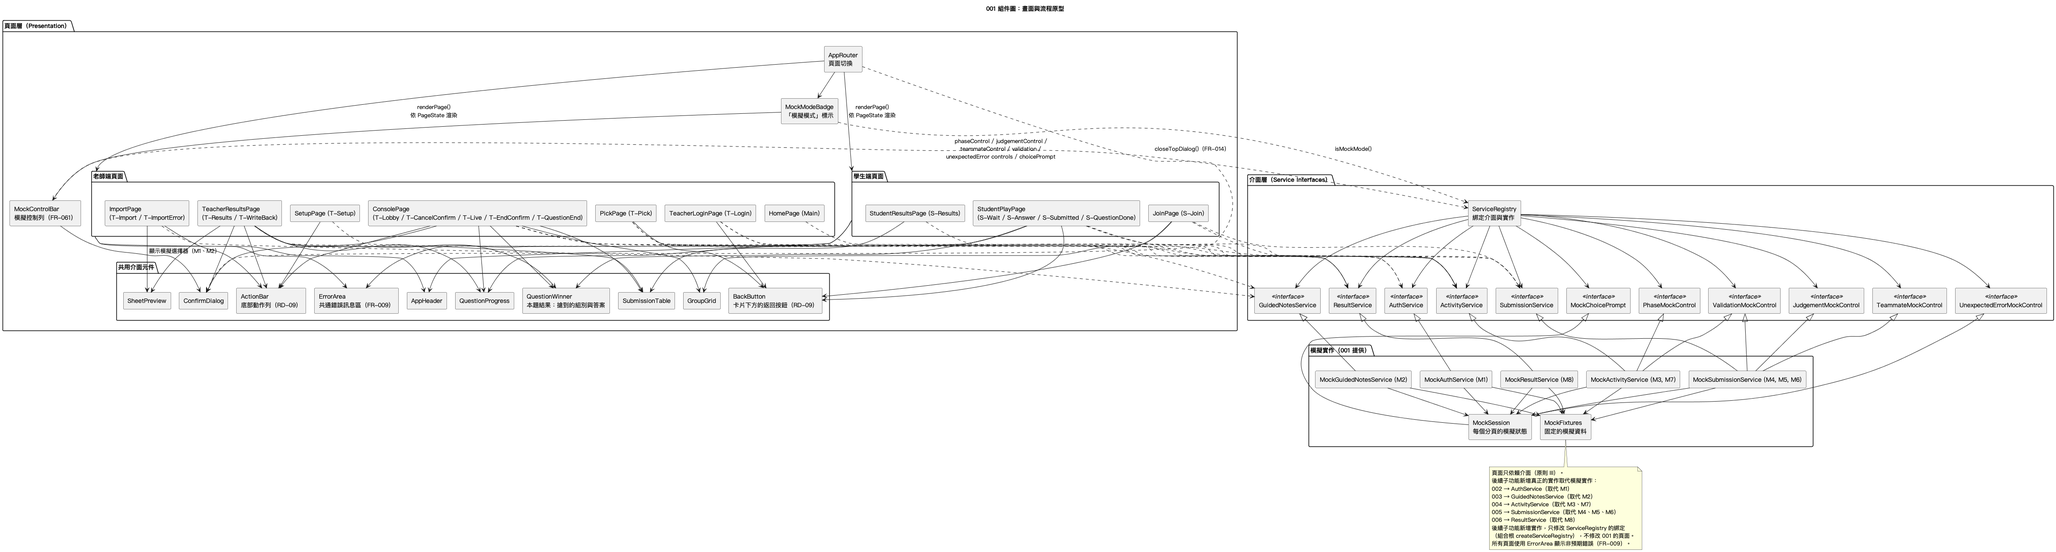
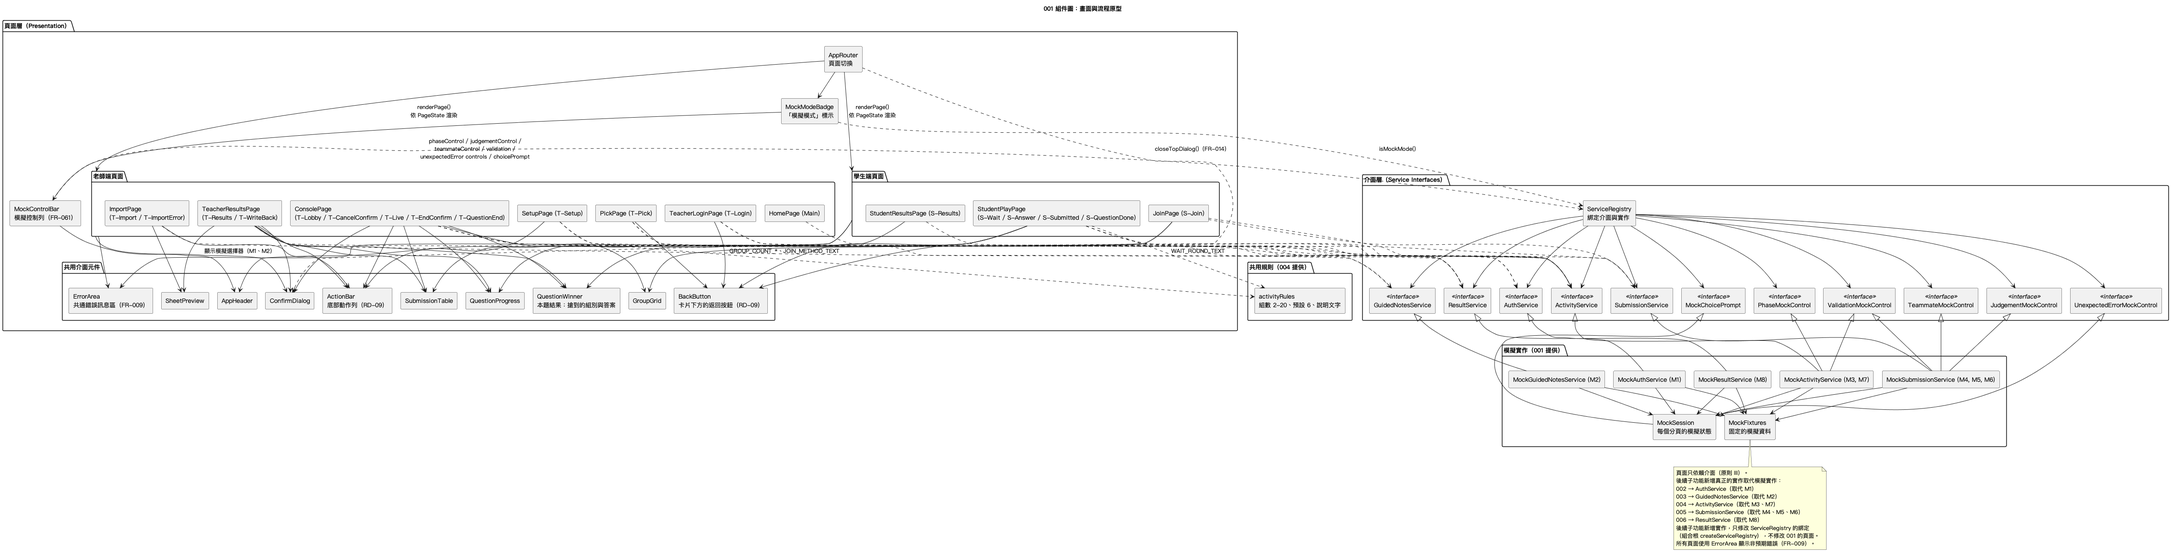
spec: fix the 001 setup rules and round texts
The success rule on T-Setup lacked "被拒絕後不能重送" (005 AC-26, #26),
and 001 pages never used 004's group count limits and round texts,
leaving 004 C2 open (#28).

Refs: FR-023, FR-051, US2 AC-6, AC-7, D4, D5, D18, REQ-ACT-23, #26, #28

diff --git a/specs/004-buzzer-session/spec.md b/specs/004-buzzer-session/spec.md
@@ -20,7 +20,7 @@
 
 - 老師建立活動、修改組數（R3）。
 - 老師在準備中（開放第 1 題之前）取消活動；取消後活動不存在，已加入的學生回到選組頁的「目前沒有活動」（R3、feature-split 第 4 節）。
-- 定義並提供活動設定頁的組數規則（預設值、「−」「+」何時不可用）與 004 負責的說明文字（001 FR-023、FR-051 交給 004 定義）。頁面的呈現由 001 修改（「需請 001 修改」C2）；004 不修改 001 的頁面（原則 III）。
+- 定義並提供活動設定頁的組數規則（預設值、「−」「+」何時不可用）與 004 負責的說明文字（001 FR-023、FR-051 交給 004 定義）。頁面的呈現由 001 修改（「需請 001 修改」C2，001 已完成，2026-11-28）；004 不修改 001 的頁面（原則 III）。
 - 學生不需登入，選擇組別加入；同一組可以有多位學生（R7）。
 - 老師依題號一題一題開放、結束搶答；結束最後一題時活動一併結束（R3、D9）。
 - 活動階段只存在伺服器，任何改變都主動通知所有分頁；學生頁面依階段自動切換（R11）。
@@ -34,7 +34,7 @@
 | 讀取學習單、辨識題目 | 003 |
 | 送出答案、依送出順序判定、作答期間隱藏其他組 | 005 |
 | 公布每題與全部結果、寫回學習單 | 006 |
-| 頁面、按鈕與頁面切換的畫面 | 001（004 配合 001 的現況；C1（D21）001 已完成（2026-11-27），仍需 001 修改的是 C2（組數規則與說明文字），見「需請 001 修改」） |
+| 頁面、按鈕與頁面切換的畫面 | 001（004 配合 001 的現況；C1（D21）001 已完成（2026-11-27），C2（組數規則與說明文字）001 已完成（2026-11-28），見「需請 001 修改」） |
 
 不做：每題限時與倒數、公平模式（E3）、活動名稱、開新一輪（活動開放第 1 題之後就不能取消或提前結束，結束後也不能建立新活動；同一時間只有一場活動）、學生加入網址、連線／離線狀態顯示、活動狀態存檔（伺服器重啟後活動消失）。
 
@@ -42,7 +42,7 @@
 
 ### Session 2026-11-21
 
-- Q: 組數的範圍？組數在邊界時「−」「+」怎麼呈現？（001 D4）→ A: 2 到 20 組的整數；組數為 2 時「−」不可用、為 20 時「+」不可用；伺服器再驗證一次（REQ-ACT-02）。（2026-11-22：001 spec 已把範圍、預設值與「−」「+」何時不可用交給 004 定義，不列為請 001 修改。2026-11-26：001 已完成但沒有套用，列為請 001 修改 C2，見 Session 2026-11-26）
+- Q: 組數的範圍？組數在邊界時「−」「+」怎麼呈現？（001 D4）→ A: 2 到 20 組的整數；組數為 2 時「−」不可用、為 20 時「+」不可用；伺服器再驗證一次（REQ-ACT-02）。（2026-11-22：001 spec 已把範圍、預設值與「−」「+」何時不可用交給 004 定義，不列為請 001 修改。2026-11-26：001 已完成但沒有套用，列為請 001 修改 C2，見 Session 2026-11-26；2026-11-28 001 已完成 C2）
 - Q: 組數的預設值？（001 D5）→ A: 6 組（REQ-ACT-02、AC-01）。
 - Q: 結束最後一題時，活動是否一併結束？（001 D9）→ A: 是。結束最後一題後階段直接是「已結束」，不另外經過最後一題的「本題已結束」（REQ-ACT-06）。（2026-11-22：feature-split 第 4 節已定案，001 的頁面切換已配合）
 - Q: 老師在活動進行中重新整理頁面時，活動要結束，還是讓老師登入後回到控制台？（001 D21）→ A: 活動繼續；老師用同一個帳號重新登入後，直接進入控制台目前的階段（REQ-ACT-21，需請 001 修改 C1）。（2026-11-22 修訂：001 修改前為暫時限制，見 Session 2026-11-22；2026-11-27 001 已完成 C1，暫時限制解除，見 Session 2026-11-27）
@@ -82,7 +82,7 @@
 - Q: 活動被取消時，學生頁面怎麼知道？→ A: 依 001 RD-12，階段改變的通知以「沒有活動」表示活動已被取消；首頁、選組頁、等待開放頁收到後切換（REQ-ACT-16、AC-33）。
 - Q: 連點「確定取消活動」，第二次時活動已經不存在怎麼辦？→ A: 視為成功、不改變，與連點開放或結束相同（REQ-ACT-07、AC-36）。
 - Q: 允許取消後，「已經有活動時再建立」的訊息還要說「重新啟動伺服器」嗎？→ A: 要。這個情況只會在老師失去控制台時發生（D21 暫時限制下重新登入，或被別人登入取代），老師回不到控制台，也就無法取消；要重新開始仍只能重新啟動伺服器（AC-06、AC-32）。（2026-11-27：C1 完成後老師重新登入會回到控制台，這個訊息只在連點、兩個老師分頁等情況出現，見 Session 2026-11-27）
-- Q: 001 已完成，但活動設定頁的組數沒有上下限（「−」可減到 0），預設值寫死在頁面，等待開放頁的「這一輪」只有題數，誰來補？→ A: 規則與文字屬於 004（001 FR-023、FR-051），由 004 定義並以共用常數提供；頁面怎麼呈現屬於 001。憲法 III 不允許為新增規則修改既有且已驗證的實作，001 plan 也只允許後續子功能修改 `ServiceRegistry` 的綁定，所以列為「需請 001 修改」C2，由 001 依自己的流程修改頁面與測試。C2 完成前，伺服器仍驗證組數（AC-04），頁面維持 001 現況（REQ-ACT-02、REQ-ACT-23、AC-01、AC-02、AC-09）。（2026-11-26 analyze 第 5 次 C1 後修訂；原本決定由 004 直接修改 001 頁面）
+- Q: 001 已完成，但活動設定頁的組數沒有上下限（「−」可減到 0），預設值寫死在頁面，等待開放頁的「這一輪」只有題數，誰來補？→ A: 規則與文字屬於 004（001 FR-023、FR-051），由 004 定義並以共用常數提供；頁面怎麼呈現屬於 001。憲法 III 不允許為新增規則修改既有且已驗證的實作，001 plan 也只允許後續子功能修改 `ServiceRegistry` 的綁定，所以列為「需請 001 修改」C2，由 001 依自己的流程修改頁面與測試。C2 完成前，伺服器仍驗證組數（AC-04），頁面維持 001 現況（REQ-ACT-02、REQ-ACT-23、AC-01、AC-02、AC-09）。（2026-11-26 analyze 第 5 次 C1 後修訂；原本決定由 004 直接修改 001 頁面。2026-11-28 001 已完成 C2，001 spec Session 2026-11-28）
 - Q: 活動設定頁「學生加入」的文字以誰為準？→ A: 以 001 已實作的文字為基礎，加上 004 的換組規則（「說明文字」一節）。
 - Q: 伺服器重新啟動時，已開著的頁面怎麼辦？→ A: 頁面重新連上後收到「沒有活動」，依 001 RD-12：首頁、選組頁、等待開放頁切到「目前沒有活動」；作答頁、等待判定頁、本題結果頁與全部結果頁不切換（Edge Cases）。
 - Q: 學生收到的活動資料要遮掉哪些學習單資訊？→ A: 學生頁面用不到任何學習單資訊，試算表 ID、標題、工作表名稱都不給（REQ-ACT-19）。
@@ -107,8 +107,8 @@
 
 **Acceptance Scenarios**:
 
-1. **AC-01** **Given** 老師已登入且已成功匯入一份 4 題的學習單，**When** 進入活動設定頁（建立模式），**Then** 組數預設為 6，組別清單列出第 1–6 組；「這一輪」的學生加入說明為「說明文字」一節的內容。（頁面部分需 001 完成 C2）
-2. **AC-02** **Given** 活動設定頁的組數為 2，**When** 檢視組數欄位，**Then**「−」不可用，連按也不會小於 2；組數為 20 時「+」不可用，連按也不會大於 20。（需 001 完成 C2；完成前由伺服器拒絕，見 AC-04）
+1. **AC-01** **Given** 老師已登入且已成功匯入一份 4 題的學習單，**When** 進入活動設定頁（建立模式），**Then** 組數預設為 6，組別清單列出第 1–6 組；「這一輪」的學生加入說明為「說明文字」一節的內容。（頁面部分由 001 依 C2 完成，2026-11-28）
+2. **AC-02** **Given** 活動設定頁的組數為 2，**When** 檢視組數欄位，**Then**「−」不可用，連按也不會小於 2；組數為 20 時「+」不可用，連按也不會大於 20。（頁面由 001 依 C2 完成，2026-11-28；伺服器另外驗證，見 AC-04）
 3. **AC-03** **Given** 活動設定頁的組數為 4，**When** 老師按「建立活動」，**Then** 活動進入「準備中」，題目為匯入的 4 題，第 1–4 組各 0 人；已開著首頁或選組頁的分頁在 1 秒內看到這個活動。
 4. **AC-04** **Given** 有人繞過頁面直接要求組數 1、21 或 3.5，**When** 建立活動或儲存設定，**Then** 系統拒絕，在組數欄位旁顯示「組數必須是 2 到 20 之間的整數」，活動不變。
 5. **AC-05** **Given** 準備中且第 5 組已有 1 位學生，**When** 老師把組數改成 4 並儲存，**Then** 系統拒絕並顯示「第 5 組已有學生加入，組數不能少於 5」；改成 8 則成功，所有分頁在 1 秒內看到 8 組。
@@ -132,7 +132,7 @@
 
 **Acceptance Scenarios**:
 
-1. **AC-09** **Given** 活動準備中、6 組，**When** 學生在選組頁選第 3 組並按「加入第 3 組」，**Then** 進入等待開放頁，「這一輪」顯示題數與「說明文字」一節的內容（說明文字需 001 完成 C2）；老師控制台在 1 秒內顯示第 3 組人數加 1。
+1. **AC-09** **Given** 活動準備中、6 組，**When** 學生在選組頁選第 3 組並按「加入第 3 組」，**Then** 進入等待開放頁，「這一輪」顯示題數與「說明文字」一節的內容（說明文字由 001 依 C2 完成，2026-11-28）；老師控制台在 1 秒內顯示第 3 組人數加 1。
 2. **AC-10** **Given** 第 3 組已有 1 人，**When** 另一個分頁也加入第 3 組，**Then** 加入成功，第 3 組為 2 人。
 3. **AC-11** **Given** 準備中，學生在第 3 組，**When** 按「選錯組別？重新選擇」後加入第 5 組，**Then** 第 3 組人數減 1、第 5 組加 1。
 4. **AC-12** **Given** 第 1 題已開放過（之後任何階段），**When** 已在第 3 組的分頁要求加入第 5 組或離開組別，**Then** 系統拒絕，頁面停留在原頁，共通錯誤訊息區顯示「第 1 題開放後不能換組，你在第 3 組」；該分頁仍在第 3 組。
@@ -230,7 +230,7 @@
 - **REQ-ACT-03**（R3）：系統同一時間 MUST 最多只有一場活動；已有活動時（任何階段）MUST 拒絕建立新活動，並說明「已經有進行中的活動，不能再建立；要重新開始請重新啟動伺服器」。活動被取消（REQ-ACT-22）後 MUST 允許再建立。
 - **REQ-ACT-04**（R3、R7）：老師 MUST 只能在第 1 題開放前修改組數；新組數 MUST 不少於目前已有學生的最大組別編號，否則拒絕並說明「第 n 組已有學生加入，組數不能少於 n」。
 - **REQ-ACT-22**（R3、feature-split 第 4 節、001 FR-026）：老師 MUST 能在準備中取消活動。取消後活動不存在：所有組別與學生的加入紀錄 MUST 一併清除，下一場活動的人數從 0 開始；所有分頁 MUST 收到「沒有活動」（REQ-ACT-16）。第 1 題開放後 MUST 拒絕取消，說明「第 1 題開放後不能取消活動」，活動不變；系統 MUST NOT 提供開放第 1 題後提前結束活動的方式。沒有活動時要求取消 MUST 視為成功、不改變狀態（連點）。
-- **REQ-ACT-23**（001 FR-023、FR-051）：004 MUST 以共用常數提供 REQ-ACT-02 的組數範圍與預設值，以及「說明文字」一節的文字，讓 001 的活動設定頁與等待開放頁引用。004 MUST NOT 修改 001 的頁面（原則 III）；頁面的呈現由 001 依「需請 001 修改」C2 完成，完成前伺服器仍依 REQ-ACT-02 驗證組數。
+- **REQ-ACT-23**（001 FR-023、FR-051）：004 MUST 以共用常數提供 REQ-ACT-02 的組數範圍與預設值，以及「說明文字」一節的文字，讓 001 的活動設定頁與等待開放頁引用。004 MUST NOT 修改 001 的頁面（原則 III）；頁面的呈現由 001 依「需請 001 修改」C2 完成（2026-11-28）；伺服器仍依 REQ-ACT-02 驗證組數。
 
 #### 逐題開放與結束
 
@@ -268,7 +268,7 @@
 
 ### 說明文字
 
-001 在活動設定頁「學生加入方式的說明」與等待開放頁「這一輪的說明」只保留位置，文字依 feature-split 3.2 與 004、005 的規則撰寫（001 spec「相對於設計稿的調整」末段、FR-023、FR-051）。001 已完成：活動設定頁的「學生加入」已有文字，等待開放頁的「這一輪」只顯示題數。004 負責的部分文字如下，由 004 以共用常數提供、001 依 C2 引用（REQ-ACT-23）；成功規則的文字由 005 提供，001 已有的成功規則文字 004 不改：
+001 在活動設定頁「學生加入方式的說明」與等待開放頁「這一輪的說明」只保留位置，文字依 feature-split 3.2 與 004、005 的規則撰寫（001 spec「相對於設計稿的調整」末段、FR-023、FR-051）。001 已完成：活動設定頁的「學生加入」已有文字，等待開放頁的「這一輪」只顯示題數。004 負責的部分文字如下，由 004 以共用常數提供、001 依 C2 引用（REQ-ACT-23；2026-11-28 001 已完成）；成功規則的文字由 005 提供，001 已有的成功規則文字 004 不改：
 
 - 活動設定頁「學生加入」：「學生在首頁選「我是學生」，再選自己的組別加入。同一組可以有多位同學，任何人送出都代表整組。第 1 題開放後不能換組。」（001 已有的文字加上最後一句）
 - 等待開放頁「這一輪」：保留 001 的題數，下方加上「老師會一題一題開放。第 1 題開放後不能換組。」
@@ -278,7 +278,7 @@
 | # | 要改什麼 | 為什麼 | 修改前的處理 |
 | --- | --- | --- | --- |
 | C1 | 老師登入成功後的目的頁：先呼叫 `ActivityService.getCurrentActivity()`，沒有活動時進入 T-Pick（不變）；`PREPARING` → T-Lobby、`OPEN` → T-Live（第 n 題）、`QUESTION_ENDED` → T-QuestionEnd（第 n 題）、`FINISHED` → T-Results。修改 spec「頁面與按鈕」T-Login 列、畫面流程圖、`AppRouter`，以及 research RD-11 的說明（重新整理仍回首頁，但老師登入後可回到控制台）。已在 PR #10 留言；001 已完成但沒有納入，2026-11-27 由 001 修改 spec（FR-015）與登入頁後完成 | D21 決定「活動繼續，老師重新登入後回到控制台」（REQ-ACT-21、AC-26） | （已完成，2026-11-27）原本的暫時限制：老師登入後進入 T-Pick，回不到控制台；活動與學生不受影響 |
-| C2 | 活動設定頁（T-Setup）與等待開放頁（S-Wait）引用 004 提供的常數：建立模式的組數初始值用 `GROUP_COUNT_DEFAULT`；「−」在 `GROUP_COUNT_MIN`、「+」在 `GROUP_COUNT_MAX` 時不可用，點擊結果不超出範圍；T-Setup「學生加入」用 `JOIN_METHOD_TEXT`；S-Wait「這一輪」在題數下方加上 `WAIT_ROUND_TEXT`。不增減欄位、按鈕或頁面。修改 001 spec（US2 AC-7、FR-023、FR-051）、tasks 與對應的元件測試 | 規則與文字由 004 定義（001 FR-023、FR-051），但 004 不得為此修改 001 已驗證的頁面（原則 III；001 plan「替換模擬實作的方式」）（REQ-ACT-23、AC-01、AC-02、AC-09） | 頁面維持 001 現況：組數預設 6 但沒有上下限，超出範圍時由伺服器拒絕（AC-04）；「學生加入」為 001 原本的文字，等待開放頁只顯示題數 |
+| C2 | 活動設定頁（T-Setup）與等待開放頁（S-Wait）引用 004 提供的常數：建立模式的組數初始值用 `GROUP_COUNT_DEFAULT`；「−」在 `GROUP_COUNT_MIN`、「+」在 `GROUP_COUNT_MAX` 時不可用，點擊結果不超出範圍；T-Setup「學生加入」用 `JOIN_METHOD_TEXT`；S-Wait「這一輪」在題數下方加上 `WAIT_ROUND_TEXT`。不增減欄位、按鈕或頁面。修改 001 spec（US2 AC-7、FR-023、FR-051）、tasks 與對應的元件測試。2026-11-28 由 001 修改 spec（FR-023、FR-051、US2 AC-6、AC-7）與頁面後完成（issue #28） | 規則與文字由 004 定義（001 FR-023、FR-051），但 004 不得為此修改 001 已驗證的頁面（原則 III；001 plan「替換模擬實作的方式」）（REQ-ACT-23、AC-01、AC-02、AC-09） | （已完成，2026-11-28）原本的處理：頁面維持 001 現況，組數預設 6 但沒有上下限，超出範圍時由伺服器拒絕（AC-04）；「學生加入」為 001 原本的文字，等待開放頁只顯示題數 |
 
 2026-11-22 那一輪列出的舊 C2（`joinGroup` 回傳 `ValidationError`）、C3（組數範圍與預設值）、C4（說明文字）、C5（`FINISHED` 與加入時依階段切換）已移除：舊 C2 改用 `UnexpectedError`；C3、C4 當時認為 001 實作時會照用，001 完成後沒有套用，2026-11-26 合併成新的 C2；C5 已由 001 最終版完成。取消活動的頁面（001 FR-026、FR-050、FR-051）001 已完成，不需請 001 修改。
 

diff --git a/specs/001-ui-prototype/spec.md b/specs/001-ui-prototype/spec.md
@@ -69,8 +69,8 @@
 | D1 | 登入失敗分為「已取消登入」與「此帳號不是老師帳號」兩種，並顯示對應訊息（2026-11-21 修訂：Google 帳號無法判斷是否為老師，以 Google 登入的人即為老師，捨棄「此帳號不是老師帳號」；002 只需決定取消登入以外的失敗種類，例如授權失敗） | FR-013；US1 AC-4 | 002 |
 | D2 | 找不到表頭時不匯入任何題目，原本的題目清單也不變動 | FR-022；US2 AC-2；Edge Cases | 003 |
 | D3 | 挑選學習單時關閉檔案選擇器，原本的辨識結果不變 | Edge Cases | 003 |
-| D4 | 組數範圍為 2 到 20 組；組數在 2 或 20 時「−」或「+」不可用 | FR-023；US2 AC-5；Edge Cases | 004 |
-| D5 | 組數預設為 6 組 | FR-023；US2 AC-4 | 004 |
+| D4 | 組數範圍為 2 到 20 組；組數在 2 或 20 時「−」或「+」不可用 | FR-023；US2 AC-5；Edge Cases | 004（2026-11-28：004 以 `activityRules` 提供，001 頁面依 004 C2 引用，FR-023、US2 AC-7） |
+| D5 | 組數預設為 6 組 | FR-023；US2 AC-4 | 004（2026-11-28：001 頁面依 004 C2 引用，FR-023、US2 AC-6） |
 | D6 | 活動名稱預填學習單標題 | FR-023；US2 AC-4 | 已捨棄（2026-11-21 clarify：不保留活動名稱） |
 | D7 | 活動名稱必填；只有空白字元視為空白；空白時顯示「請輸入活動名稱」 | FR-023；US2 AC-6；Edge Cases | 已捨棄（2026-11-21 clarify：不保留活動名稱） |
 | D8 | 所有輸入在送出前都要驗證，驗證失敗時在欄位旁說明哪一項有誤及原因 | FR-008 | 各子功能依原則 VII 定義自己的驗證規則；001 只負責顯示（FR-008） |
@@ -83,7 +83,7 @@
 | D15 | 連點「整組送出」只送出一次 | FR-053；Edge Cases | 005 |
 | D16 | 被拒絕的組別可修改答案後重送；被拒絕狀態保留上次送出的答案 | FR-056；US4 AC-8、AC-9；「相對於設計稿的調整」末段 | 已捨棄（feature-split 第 4 節已決定：每組每題只能送出一次，不能重送；001 的頁面已配合，2026-11-22） |
 | D17 | 學生在等待判定時另一組已被接受，維持等待判定直到本題結束 | Edge Cases | 已不適用（feature-split 第 4 節：接受後本題自動結束，所有學生進入本題結果） |
-| D18 | 說明文字中的成功規則「老師依送出順序判定，第一個被接受的組別搶答成功」 | FR-023；「相對於設計稿的調整」末段 | 005（依 feature-split 3.2） |
+| D18 | 說明文字中的成功規則「老師依送出順序判定，第一個被接受的組別搶答成功」 | FR-023；「相對於設計稿的調整」末段 | 005（依 feature-split 3.2；2026-11-28 依 issue #26 調整文字順序並補上「被拒絕後不能重送」，FR-023） |
 | D19 | 寫回確認視窗說明「這些填空格原本的內容會被覆蓋」 | FR-041 | 006 |
 | D20 | 寫回失敗時不寫入任何格子，並說明沒有寫入任何格子 | FR-042；Edge Cases | 006 |
 | D21 | 老師在活動進行中重新整理頁面時，活動要結束，還是讓老師登入後回到控制台。若選擇回到控制台，須先修改 001 的頁面切換（目前重新整理一律回到首頁） | 001 plan 審查（2026-11-21） | 004（已決定：活動繼續；老師登入後依目前活動的階段進入控制台，004 spec「需請 001 修改」C1。001 的登入頁已配合，重新整理仍回到首頁，2026-11-27，FR-015） |
@@ -128,6 +128,13 @@
 - Q: 老師登入成功後進入哪一頁？ → A: 依活動介面回傳的目前活動決定：沒有活動時進入挑選學習單頁（不變）；準備中進入控制台・準備中；搶答中進入控制台・搶答中（第 n 題）；本題已結束進入控制台・本題已結束（第 n 題）；已結束進入結果與寫回頁（FR-015、US1 AC-3、AC-8）。重新整理仍一律回到首頁（FR-014）。
 - Q: 登入成功但取得目前活動失敗時怎麼處理？ → A: 依 FR-009 停留在登入頁，在共通錯誤訊息區顯示介面回傳的訊息，不進入老師頁面；老師再按「用 Google 登入」重試（FR-015、US1 AC-9）。
 
+### Session 2026-11-28
+
+依 issue #26（005 AC-26、REQ-SUB-18）與 issue #28（004 spec「需請 001 修改」C2）修訂：
+
+- Q: 活動設定頁「成功規則」的說明缺少「被拒絕後不能重送」，且「第一個被接受的組別搶答成功」被中間的句子隔開，怎麼改？ → A: 改為「老師依送出順序判定，第一個被接受的組別搶答成功，這一題隨即結束；老師只能判定最早一筆還沒判定的答案。每組每題只能送出一次，被拒絕後不能重送。」內容不變，只調整順序並補上最後一句（FR-023、D18；feature-split 3.2、第 4 節）。
+- Q: 004 已在 `shared/src/activityRules.ts` 提供組數規則與說明文字，001 的頁面要怎麼套用？ → A: 活動設定頁建立模式的組數初始值用 `GROUP_COUNT_DEFAULT`；組數為 `GROUP_COUNT_MIN` 時「−」不可用、為 `GROUP_COUNT_MAX` 時「+」不可用，點擊結果不超出範圍；「學生加入」用 `JOIN_METHOD_TEXT`；等待開放頁「這一輪」在題數下方加上 `WAIT_ROUND_TEXT`。不增減欄位、按鈕或頁面；組數仍由活動介面驗證（FR-023、FR-051、US2 AC-6、AC-7、D4、D5）。
+
 ## User Scenarios & Testing *(mandatory)*
 
 ### User Story 1 - 選擇身分進入對應入口 (Priority: P1)
@@ -166,8 +173,8 @@
 3. **Given** 老師在挑選學習單頁, **When** 點「從 Google 雲端硬碟挑選」，在模擬檔案選擇器中選「表頭錯誤範例」, **Then** 模擬為找不到表頭，進入找不到表頭頁，顯示錯誤原因、學習單目前的表頭文字、系統認得的表頭寫法與修正方式。
 4. **Given** 老師在找不到表頭頁（「表頭錯誤範例」）, **When** 點「重新讀取」, **Then** 模擬為老師已修正表頭，重新讀取成功，進入確認辨識結果頁，顯示與「題組＋單題範本」相同的 4 題、6 個填空格。
 5. **Given** 老師在挑選學習單頁, **When** 點「從 Google 雲端硬碟挑選」後關閉模擬檔案選擇器, **Then** 停留在挑選學習單頁。
-6. **Given** 老師在確認辨識結果頁, **When** 點「確認匯入，下一步」, **Then** 進入活動設定頁（建立模式），頁面有組數欄位（含「−」「+」與組別清單）、這一輪的摘要，以及「上一步」「建立活動」兩個按鈕。
-7. **Given** 老師在活動設定頁, **When** 點組數的「+」或「−」, **Then** 組數增加或減少 1 組，組別清單隨之更新，頁面不切換。（組數的範圍，以及「−」「+」何時不可用，由 004 定義；001 的模擬實作不限制）
+6. **Given** 老師在確認辨識結果頁, **When** 點「確認匯入，下一步」, **Then** 進入活動設定頁（建立模式），頁面有組數欄位（含「−」「+」與組別清單，組數預設為 6 組）、這一輪的摘要，以及「上一步」「建立活動」兩個按鈕。
+7. **Given** 老師在活動設定頁, **When** 點組數的「+」或「−」, **Then** 組數增加或減少 1 組，組別清單隨之更新，頁面不切換；組數為 2 時「−」不可用、為 20 時「+」不可用，連按也不會超出 2 到 20 組。（範圍與預設值由 004 定義，頁面引用 004 的 `activityRules`，FR-023）
 8. **Given** 老師在活動設定頁（建立模式）, **When** 點「建立活動」, **Then** 模擬為建立成功，進入控制台・準備中，顯示各組已加入人數（模擬資料中至少一組為 0 人）與這一輪的題目清單。
 9. **Given** 老師在活動設定頁，且展示者已在模擬控制列點「模擬：驗證失敗」, **When** 點「建立活動」或「儲存設定」, **Then** 模擬為驗證失敗，停留在活動設定頁，並在組數欄位旁顯示「模擬：驗證失敗」。（只觸發錯誤的顯示，驗證規則由 004 定義）
 10. **Given** 老師在控制台・準備中, **When** 點「修改設定」, **Then** 進入活動設定頁（修改模式），頁面按鈕為「取消」「儲存設定」；按「取消」，或按「儲存設定」且模擬為儲存成功，都回到控制台・準備中。
@@ -275,7 +282,7 @@
 - 老師取消活動時，已加入組別的學生：回到選組頁的「目前沒有活動」（階段推動，屬於 004；001 的頁面已處理這個通知，FR-050、FR-051）。
 - 作答頁、等待判定頁或本題結果頁收到「沒有活動」的通知：不切換頁面。依 FR-026，開放第 1 題之後不能取消活動，因此這個通知不會出現在這些頁面。
 
-下列情況的規則不由 001 定義，001 的頁面依介面回傳的結果呈現，見「交給其他子功能定義的事項」：找不到表頭時是否保留原本的題目清單（D2）、組數範圍與預設值及必填欄位（D4–D7）、空白字元與連點送出（D14、D15）、寫回失敗時是否寫入部分格子（D20）、同組兩位組員幾乎同時送出時以哪一筆為準（005）。
+下列情況的規則不由 001 定義，001 的頁面依介面回傳的結果呈現，見「交給其他子功能定義的事項」：找不到表頭時是否保留原本的題目清單（D2）、組數範圍與預設值（D4、D5，頁面引用 004 的 `activityRules`）及必填欄位（D6、D7）、空白字元與連點送出（D14、D15）、寫回失敗時是否寫入部分格子（D20）、同組兩位組員幾乎同時送出時以哪一筆為準（005）。
 
 ## Requirements *(mandatory)*
 
@@ -310,7 +317,7 @@
 - **FR-023**: 活動設定頁 MUST 提供下列欄位與摘要，且 MUST NOT 提供活動名稱欄位（活動名稱不在 `docs/assignment.md` 的需求內）：
   - 組數欄位：以「−」「+」調整，並列出各組。
   - 這一輪的摘要：題數、題組題號、組數、成功規則的說明、學生加入方式的說明。
-  欄位的驗證規則與預設值由 004 定義；說明文字依 `docs/feature-split.md` 3.2 與 004、005 的規則撰寫。001 的模擬實作接受任何輸入。
+  組數的範圍與預設值由 004 定義（D4、D5），頁面引用 004 的 `shared/src/activityRules.ts`：建立模式的組數初始值為 `GROUP_COUNT_DEFAULT`（6），修改模式為活動目前的組數；組數為 `GROUP_COUNT_MIN`（2）時「−」不可用、為 `GROUP_COUNT_MAX`（20）時「+」不可用，點擊結果不超出範圍。學生加入方式的說明為 `JOIN_METHOD_TEXT`。成功規則的說明為「老師依送出順序判定，第一個被接受的組別搶答成功，這一題隨即結束；老師只能判定最早一筆還沒判定的答案。每組每題只能送出一次，被拒絕後不能重送。」（D18；依 `docs/feature-split.md` 3.2、第 4 節）。組數的驗證由活動介面執行（FR-008），001 的模擬實作接受任何輸入。
 - **FR-024**: 活動設定頁 MUST 有兩種模式：建立模式（按鈕「上一步」「建立活動」）與修改模式（按鈕「取消」「儲存設定」）。
 - **FR-025**: 控制台・準備中 MUST 顯示各組已加入人數、尚未有人加入的組別，與這一輪的題目清單（題號與類型）。
 - **FR-026**: 控制台・準備中 MUST 提供「取消活動」，點擊後開啟取消活動確認視窗，說明取消後已加入的學生會回到選組頁。按「確定取消活動」時透過活動介面取消活動，成功後 MUST 進入挑選學習單頁；按「繼續準備」時關閉視窗，活動不變。開放第 1 題之後的頁面 MUST NOT 提供取消或提前結束活動的方式。（R3；feature-split 第 4 節）
@@ -333,7 +340,7 @@
 #### 學生（R6、R7、R8、R9、E1、E4）
 
 - **FR-050**: 選組頁 MUST 依活動組數列出組別與各組已加入人數，選擇組別後才能按「加入第 n 組」；沒有進行中的活動時 MUST 顯示「目前沒有活動，請等老師建立活動」且不列出組別。停留在選組頁時收到活動介面「沒有活動」的通知（老師取消活動），MUST 改為顯示上述狀態並清除已選的組別。
-- **FR-051**: 等待開放頁 MUST 顯示組別、目前階段與這一輪的說明（依「階段推動的切換」，學生只在準備中停留於本頁，因此階段一律為準備中），並提供「選錯組別？重新選擇」。收到活動介面「沒有活動」的通知（老師取消活動）時 MUST 切換到選組頁，不呼叫「離開組別」（活動已不存在）；切換後的選組頁與一般進入時相同，載入時取得目前活動，活動已取消時顯示「目前沒有活動」。
+- **FR-051**: 等待開放頁 MUST 顯示組別、目前階段（依「階段推動的切換」，學生只在準備中停留於本頁，因此階段一律為準備中）與這一輪的說明（題數，下方為 004 的 `WAIT_ROUND_TEXT`「老師會一題一題開放。第 1 題開放後不能換組。」），並提供「選錯組別？重新選擇」。收到活動介面「沒有活動」的通知（老師取消活動）時 MUST 切換到選組頁，不呼叫「離開組別」（活動已不存在）；切換後的選組頁與一般進入時相同，載入時取得目前活動，活動已取消時顯示「目前沒有活動」。
 - **FR-052**: 作答頁 MUST 顯示組別、目前題號與總題數、題型、題目敘述（若有），並為每個小題各提供一個答案欄；題組 MUST 整組一次送出。
 - **FR-053**: 作答頁 MUST 有一個「整組送出」按鈕與一個送出提示區。按鈕何時可用、提示文字與重複點擊的處理由 005 定義；001 的模擬實作讓按鈕一律可用。
 - **FR-054**: 作答頁與等待判定頁 MUST NOT 顯示其他組別的作答狀況。（R9）
@@ -415,7 +422,7 @@
 | T-Import | 確認匯入，下一步 | — | T-Setup（建立模式） |
 | T-ImportError | 重新挑選 | 學習單（挑選、讀取） | 同 T-Pick 的「從 Google 雲端硬碟挑選」；取消：T-ImportError |
 | T-ImportError | 重新讀取 | 學習單（讀取） | 辨識成功：T-Import；找不到表頭：T-ImportError |
-| T-Setup | 「−」「+」（組數） | — | T-Setup（組數更新） |
+| T-Setup | 「−」「+」（組數；2 組時「−」、20 組時「+」不可用） | — | T-Setup（組數更新） |
 | T-Setup（建立模式） | 上一步 | — | T-Import |
 | T-Setup（建立模式） | 建立活動 | 活動（建立） | 驗證通過：T-Lobby；驗證失敗：T-Setup |
 | T-Setup（修改模式） | 取消 | — | T-Lobby |

diff --git a/specs/001-ui-prototype/tasks.md b/specs/001-ui-prototype/tasks.md
@@ -449,6 +449,31 @@ T012、T014、T015、T020、T021、T023、T024、T025、T028、T029、T031、T03
 
 ---
 
+## Phase 8.7: 規格修訂（2026-11-28）：成功規則文字與 004 的組數規則（issue #26、#28）
+
+**Purpose**: 套用 spec Session 2026-11-28（commit `spec(001): ...`）：活動設定頁「成功規則」改為 issue #26 的文字（FR-023、D18；005 AC-26）；依 004 spec「需請 001 修改」C2，活動設定頁與等待開放頁引用 004 的 `shared/src/activityRules.ts`（FR-023、FR-051、US2 AC-6、AC-7、D4、D5）。
+
+- **只改兩個頁面**：`SetupPage.tsx`、`StudentPlayPage.tsx` 的 `WaitView`；不增減欄位、按鈕或頁面，按鈕位置不變（RD-09 不受影響）。
+- **測試先寫、一次確認失敗**（T160–T162 一筆 `test(001)` commit），再一次實作到全部通過（T163–T165 一筆 `fix(001)` commit）。
+- **既有測試的斷言不修改**。
+
+### Tests（先寫，確認失敗）
+
+- [ ] T160 [P] [US2] 擴充 `frontend/tests/component/SetupPage.test.tsx`：「這一輪」的「成功規則」內容完全等於「老師依送出順序判定，第一個被接受的組別搶答成功，這一題隨即結束；老師只能判定最早一筆還沒判定的答案。每組每題只能送出一次，被拒絕後不能重送。」（FR-023、D18；issue #26）
+- [ ] T161 [P] [US2] 擴充 `frontend/tests/component/SetupPage.test.tsx`：建立模式的組數初始值為 `GROUP_COUNT_DEFAULT`；按「−」到 `GROUP_COUNT_MIN` 時「−」不可用、「+」可用，再點「−」組數不變；按「+」到 `GROUP_COUNT_MAX` 時「+」不可用、「−」可用，再點「+」組數不變；修改模式的初始值為活動目前的組數；「學生加入」內容完全等於 `JOIN_METHOD_TEXT`（FR-023、US2 AC-6、AC-7；004 C2）
+- [ ] T162 [P] [US4] 擴充 `frontend/tests/component/StudentPlayPage.wait.test.tsx`：S-Wait「這一輪」顯示「共 n 題」，其下方顯示 `WAIT_ROUND_TEXT`（FR-051；004 C2）
+
+### Implementation
+
+- [ ] T163 [US2] 修改 `frontend/src/pages/teacher/SetupPage.tsx`：`SUCCESS_RULE` 改為 T160 的文字；以 `@quiz-buzzer/shared/activityRules` 的 `GROUP_COUNT_DEFAULT` 取代 `INITIAL_GROUP_COUNT`；「−」「+」在 `GROUP_COUNT_MIN`、`GROUP_COUNT_MAX` 時 `disabled`，點擊結果夾在範圍內；「學生加入」改用 `JOIN_METHOD_TEXT`；更新檔頭註解（依賴 T160、T161）
+- [ ] T164 [US4] 修改 `frontend/src/pages/student/StudentPlayPage.tsx` 的 `WaitView`：「這一輪」在「共 n 題」下方加上 `WAIT_ROUND_TEXT`（依賴 T162）
+- [ ] T165 解除 004 `frontend/tests/e2e/activity-sync.spec.ts` 中等待 C2 的 2 個 `test.skip`（AC-01、AC-02 與 AC-09），執行 `npm run typecheck`、`npm run lint`、`npm test`、`npm run test:e2e`，確認 T160–T162 與這 2 個 E2E 通過，且其他測試沒有退步（SC-002）
+- [ ] T166 依 `quickstart.md` Q15 人工驗證：T-Setup 組數 2／20 時「−」「+」的狀態、「學生加入」與「成功規則」的文字、S-Wait「這一輪」的輪次文字，記錄於 `manual-verification.md`
+
+**Checkpoint**: 005 AC-26 與 004 AC-01、AC-02、AC-09 的頁面部分完成；004 不再有等待 001 的 skip。
+
+---
+
 ## 需求與任務對照
 
 | 需求 | 任務 |
@@ -467,13 +492,13 @@ T012、T014、T015、T020、T021、T023、T024、T025、T028、T029、T031、T03
 | FR-015 | T157–T159 |
 | FR-020 | T046、T052、T056、T062 |
 | FR-021、FR-022 | T057、T061、T063 |
-| FR-023、FR-024 | T058、T064、T066a |
+| FR-023、FR-024 | T058、T064、T066a、T160、T161、T163、T165、T166 |
 | FR-025 | T059、T065 |
 | FR-026 | T135–T138、T139–T142、T152、T155 |
 | FR-030–FR-034、FR-032a | T068、T069、T071–T075、T113、T126 |
 | FR-040–FR-042 | T070、T076、T143–T145 |
 | FR-050 | T047、T053、T079、T085、T147、T150、T154 |
-| FR-051 | T080、T086、T148、T151、T155 |
+| FR-051 | T080、T086、T148、T151、T155、T162、T164–T166 |
 | FR-052、FR-053 | T081、T087 |
 | FR-054 | T029、T084、T087 |
 | FR-055、FR-056 | T082、T088、T113、T124、T126 |
@@ -482,7 +507,7 @@ T012、T014、T015、T020、T021、T023、T024、T025、T028、T029、T031、T03
 | FR-058 | T083、T090 |
 | FR-060（M1–M9） | M1 T018/T026、T104/T109、M2 T019/T027、M3 T020/T028、T135/T140、M4–M6 T021/T029、T113/T123/T126、M7 T020/T028、T114/T125、M8 T022/T030、M9 T017/T025 |
 | FR-061 | T037、T041、T094、T107、T111、T116、T128 |
-| SC-001、SC-002 | T093、T095、T149–T152、T156、T157、T159 |
+| SC-001、SC-002 | T093、T095、T149–T152、T156、T157、T159、T165 |
 | SC-003 | T037、T093、T097 |
 | SC-004 | T096 |
 | SC-005、SC-006 | T055、T092（人工驗證計時）、T134 |
@@ -506,6 +531,7 @@ T012、T014、T015、T020、T021、T023、T024、T025、T028、T029、T031、T03
 - **US5 (Phase 7)**: 依賴 US1–US4 全部完成（驗證整張畫面流程圖）
 - **Polish (Phase 8)**: 依賴所有 Story
 - **規格修訂 (Phase 8.5)**: 依賴 T102；修改 US1、US4 已完成的 `HomePage.tsx`、`JoinPage.tsx`、`StudentPlayPage.tsx` 與 `interfaces.ts`；完成後才做 T103 與圖表一致性驗證（重做 F4）
+- **規格修訂 (Phase 8.7)**: 依賴 Phase 8.6；修改 US2、US4 已完成的 `SetupPage.tsx`、`StudentPlayPage.tsx`；T165 解除 004 的 2 個 E2E skip，需要 004 已在 main
 
 所有 Story 都會修改 `AppRouter.tsx`，因此 Story 之間依序執行（P1 依 US1 → US2 → US3 → US4，最後 US5）。CLAUDE.md 規定 implement 一次只執行一個 Phase。
 

diff --git a/specs/001-ui-prototype/quickstart.md b/specs/001-ui-prototype/quickstart.md
@@ -59,3 +59,4 @@ implement 階段每完成一個 Phase，回報上述指令與結果（原則 VII
 | Q10 | 不出現的元素 | 檢視所有頁面 | spec「相對於設計稿的調整」移除的元素一個都不出現；學生作答與等待判定時看不到其他組作答 | SC-004、SC-007 |
 | Q12 | 非預期錯誤 | 在 FR-061 列出的每個頁面點「模擬：非預期錯誤」（控制列顯示「已設定」提示），再點一個會呼叫介面的按鈕；接著再點一次 | 第一次停留在原頁，共通錯誤訊息區顯示「模擬：連不上伺服器」，已輸入的內容不變（確認視窗中的按鈕會先關閉視窗）；第二次成功並清除訊息 | US5 AC-9–11；FR-009；FR-061；SC-002 |
 | Q11 | 學生頁面版面 | 在桌面寬度的視窗開學生頁面 | 以手機寬度的欄位置中顯示 | spec Assumptions |
+| Q15 | 組數上下限與說明文字 | 走到活動設定頁（建立模式），連按「−」到不能再按，再連按「+」到不能再按；檢視「這一輪」；學生加入組別進入等待開放頁 | 組數預設 6 組；2 組時「−」不可用、20 組時「+」不可用，組數不超出範圍；「學生加入」為 004 的 `JOIN_METHOD_TEXT`；「成功規則」為 spec FR-023 的文字，含「被拒絕後不能重送」；等待開放頁「這一輪」在題數下方顯示「老師會一題一題開放。第 1 題開放後不能換組。」 | US2 AC-6、AC-7；FR-023、FR-051；issue #26、#28 |
